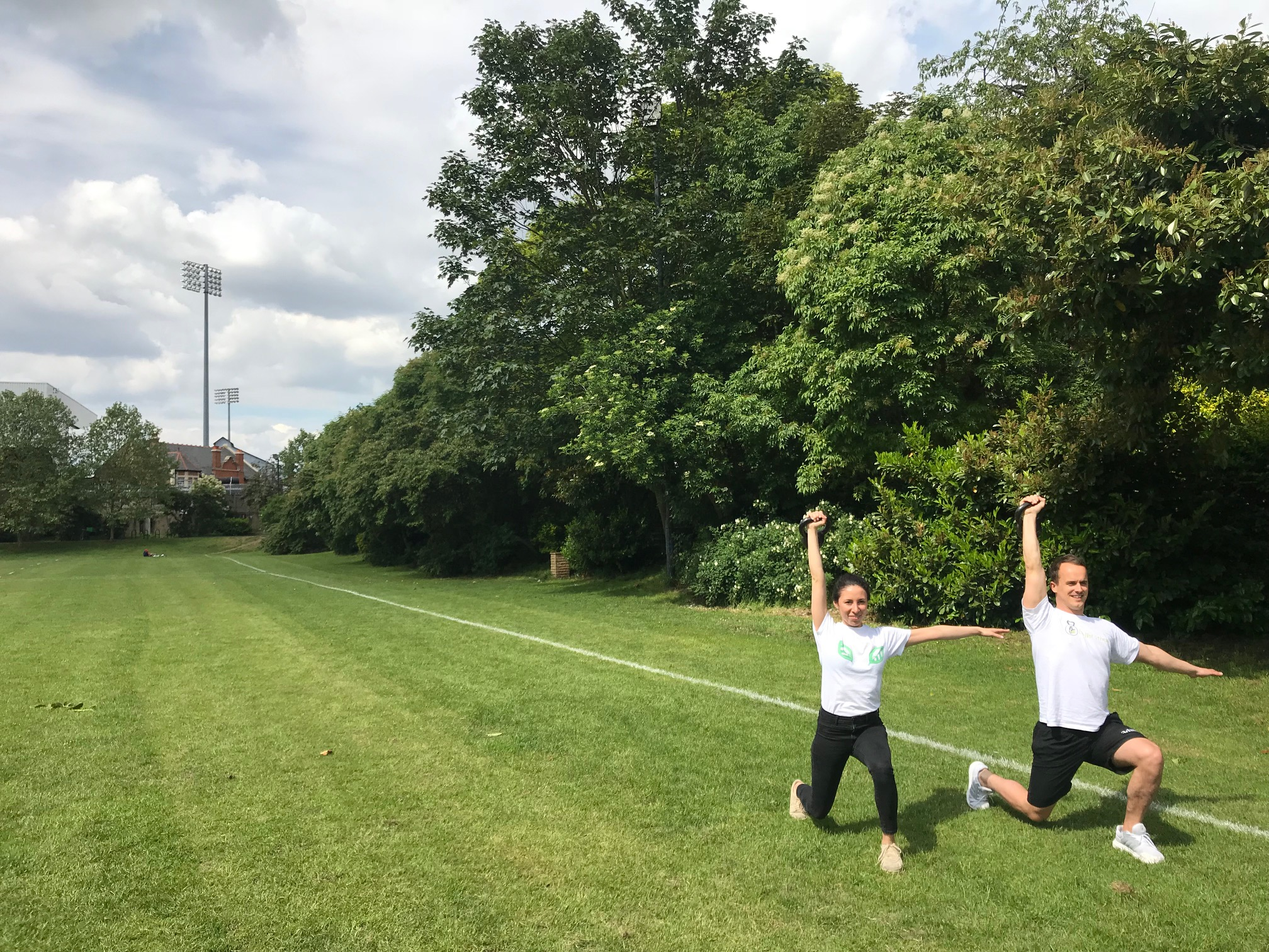
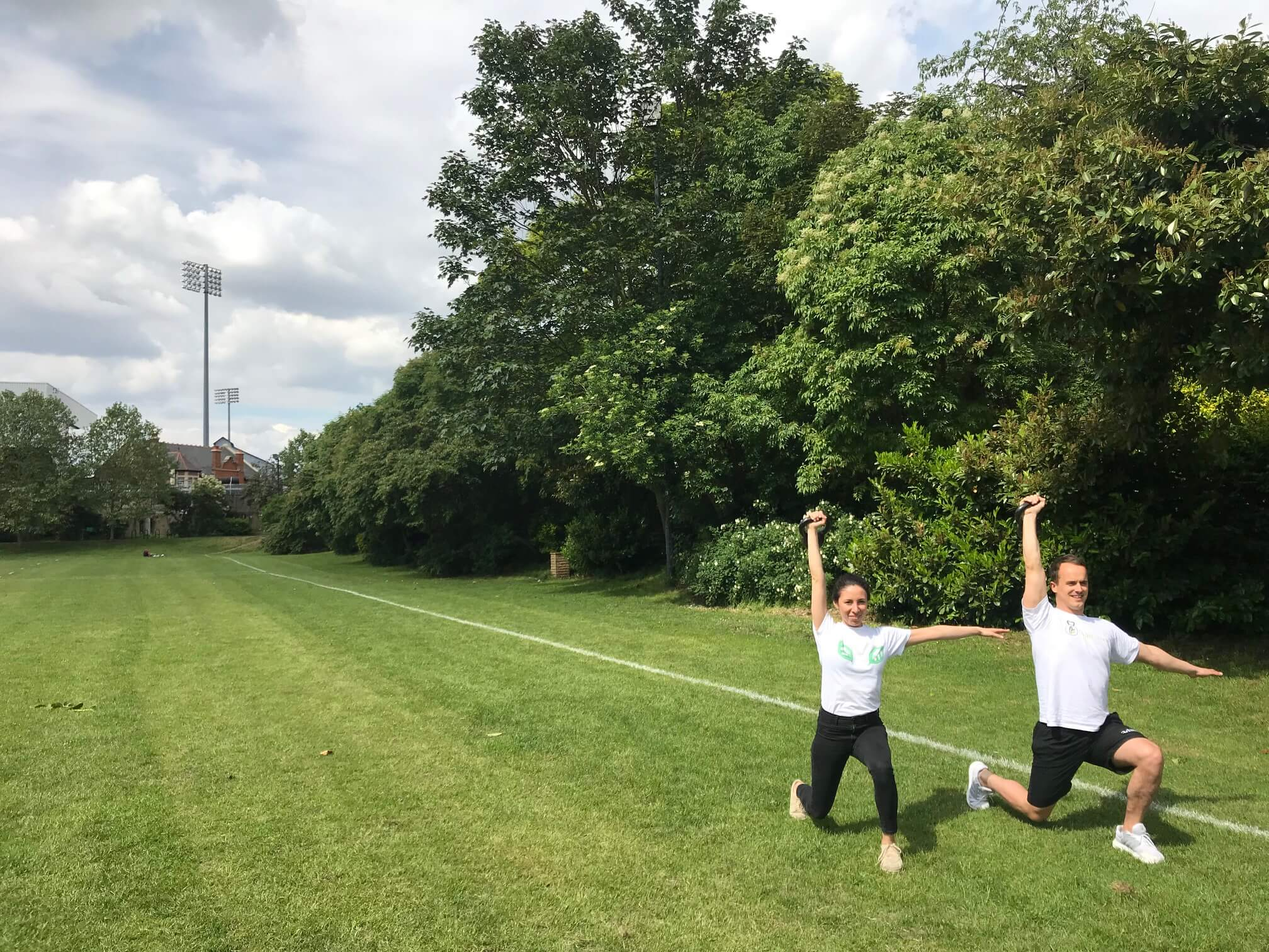
Optimised css and images

diff --git a/css/main.min.css b/css/main.min.css
@@ -1,0 +1,1 @@
+@import url("https://fonts.googleapis.com/css?family=Raleway&display=swap");body{margin:0;padding:0}*{-webkit-box-sizing:border-box;box-sizing:border-box}img{display:block}a{text-decoration:none}ul{list-style-type:none}h1,h2,h3{font-family:"Raleway", sans-serif;color:white}ul,li,a{font-family:"Raleway", sans-serif}h1{font-size:6.4vw;text-align:center}@media (min-width: 720px){h1{font-size:2.777vw}}h2{font-size:5.6vw;text-align:center}@media (min-width: 720px){h2{font-size:2.0138vw}}h3{font-size:5.066vw}@media (min-width: 720px){h3{font-size:2.22vw}}p{font-family:"Raleway", sans-serif;font-size:4vw;text-align:center;font-weight:400;color:white}@media (min-width: 720px){p{font-size:1.458vw}}section.contact{width:100%;padding:3vw 0;background-color:#211d1d;height:88vw}@media (min-width: 720px){section.contact{height:30vw}}section.contact .contact_wrapper--mob{display:block}@media (min-width: 720px){section.contact .contact_wrapper--mob{display:none}}section.contact .contact_wrapper--dt{display:none}@media (min-width: 720px){section.contact .contact_wrapper--dt{display:block}}section.contact h1{color:#8cc63f;padding-bottom:2vw}section.contact .contact__contact-options{width:45%;margin:0 auto;display:-webkit-box;display:-ms-flexbox;display:flex;-ms-flex-pack:distribute;justify-content:space-around;-webkit-box-align:start;-ms-flex-align:start;align-items:flex-start;-webkit-box-flex:1;-ms-flex:1;flex:1;-webkit-box-orient:vertical;-webkit-box-direction:normal;-ms-flex-direction:column;flex-direction:column}@media (min-width: 720px){section.contact .contact__contact-options{-webkit-box-align:center;-ms-flex-align:center;align-items:center;-webkit-box-orient:horizontal;-webkit-box-direction:normal;-ms-flex-direction:row;flex-direction:row;width:40%}}section.contact .contact__contact-options .contact__contact-options__option{-ms-flex-preferred-size:13vw;flex-basis:13vw}@media (min-width: 720px){section.contact .contact__contact-options .contact__contact-options__option{-ms-flex-preferred-size:0vw;flex-basis:0vw}}section.contact .contact__contact-options .contact__contact-options__option a{font-family:"Raleway", sans-serif;color:#8cc63f;font-size:3vw;text-align:center;display:-webkit-box;display:-ms-flexbox;display:flex;-webkit-box-align:center;-ms-flex-align:center;align-items:center;-webkit-box-pack:start;-ms-flex-pack:start;justify-content:start}section.contact .contact__contact-options .contact__contact-options__option img{display:inline-block;width:9vw;padding-right:2vw;-webkit-filter:brightness(0) saturate(100%) invert(78%) sepia(48%) saturate(599%) hue-rotate(34deg) brightness(87%) contrast(87%);filter:brightness(0) saturate(100%) invert(78%) sepia(48%) saturate(599%) hue-rotate(34deg) brightness(87%) contrast(87%)}@media (min-width: 720px){section.contact .contact__contact-options .contact__contact-options__option img{width:7vw;padding-right:0vw}}section.contact .contact__contact-details{width:40%;margin:0 auto;text-align:center;position:relative;top:3vw;left:50%;margin-left:-20%;padding-bottom:0vw}section.contact .contact__contact-details div{width:100%;font-family:"Raleway", sans-serif;color:#8cc63f;font-size:2vw;text-align:center;position:absolute;top:0;opacity:0}section.section__about{background-color:#211d1d;padding:5vw 0}section.section__about a{text-decoration:underline;font-size:4vw;color:#8cc63f}@media (min-width: 720px){section.section__about a{font-size:1.458vw}}section.section__about .two-col-block{display:-webkit-box;display:-ms-flexbox;display:flex;-webkit-box-orient:vertical;-webkit-box-direction:normal;-ms-flex-direction:column;flex-direction:column;margin:2vw;padding:0 5vw}@media (min-width: 720px){section.section__about .two-col-block{-webkit-box-orient:horizontal;-webkit-box-direction:normal;-ms-flex-direction:row;flex-direction:row;-webkit-box-align:center;-ms-flex-align:center;align-items:center;-webkit-box-pack:space-evenly;-ms-flex-pack:space-evenly;justify-content:space-evenly;margin:2vw}}section.section__about .two-col-block__column img{width:100%;padding:1vw}section.section__about .two-col-block__column p{text-align:left}@media (min-width: 720px){section.section__about .two-col-block__column{-ms-flex-preferred-size:900px;flex-basis:900px}section.section__about .two-col-block__column img{padding-left:0;padding-right:5vw}}@media (min-width: 720px){section.section__about .two-col-block--reverse{-webkit-box-orient:horizontal;-webkit-box-direction:reverse;-ms-flex-direction:row-reverse;flex-direction:row-reverse}section.section__about .two-col-block--reverse img{padding-left:5vw;padding-right:0}}section.features{width:100%;display:-ms-grid;display:grid;padding:4vw 6.94vw 6.94vw 6.94vw;-webkit-box-pack:center;-ms-flex-pack:center;justify-content:center;-webkit-box-align:baseline;-ms-flex-align:baseline;align-items:baseline;text-align:center;-ms-grid-columns:1fr;grid-template-columns:1fr;grid-template-areas:"heading" "onetoone" "group" "online" "plans";grid-row-gap:10vw}@media (min-width: 720px){section.features{-ms-grid-columns:1fr 1fr;grid-template-columns:1fr 1fr;grid-template-areas:"heading heading" "onetoone group" "online plans";grid-column-gap:4vw;grid-row-gap:4vw}}section.features h1{color:#292627;-ms-grid-row:1;-ms-grid-column:1;grid-area:heading}section.features p,section.features h3{color:#292627}@media (min-width: 720px){section.features .features__feature-left{margin-left:10vw}}@media (min-width: 720px){section.features .features__feature-right{margin-right:10vw}}section.features img{width:24vw;margin:0 auto}@media (min-width: 720px){section.features img{width:6.96vw}}section.features .feature-area-a{-ms-grid-row:2;-ms-grid-column:1;grid-area:onetoone}section.features .feature-area-b{-ms-grid-row:3;-ms-grid-column:1;grid-area:group}section.features .feature-area-c{-ms-grid-row:4;-ms-grid-column:1;grid-area:online}section.features .feature-area-d{-ms-grid-row:5;-ms-grid-column:1;grid-area:plans}section.testimonials{background-color:#000000;position:relative;width:100%;display:-ms-grid;display:grid;padding:6.94vw;-webkit-box-pack:space-evenly;-ms-flex-pack:space-evenly;justify-content:space-evenly;-webkit-box-align:baseline;-ms-flex-align:baseline;align-items:baseline;text-align:center;-ms-grid-columns:1fr;grid-template-columns:1fr;grid-template-areas:"quote-1" "quote-2" "quote-3";row-gap:10vw}@media (min-width: 720px){section.testimonials{-ms-grid-columns:1fr 1fr 1fr;grid-template-columns:1fr 1fr 1fr;grid-template-areas:"quote-1 quote-2 quote-3";-webkit-column-gap:4vw;column-gap:4vw;row-gap:4vw;padding-bottom:40vw;background-image:url(../images/main.jpg);background-repeat:no-repeat;background-size:cover}}section.testimonials .testimonial__quote-mark{position:absolute;font-size:30vw;width:10vw;color:#8cc63f}@media (min-width: 720px){section.testimonials .testimonial__quote-mark{width:5vw;font-size:12vw;line-height:0}}section.testimonials .testimonial__quote-mark--left{left:3vw;top:3vw}@media (min-width: 720px){section.testimonials .testimonial__quote-mark--left{left:5vw;top:10vw}}section.testimonials .testimonial__quote-mark--right{left:83vw;top:235vw}@media (min-width: 720px){section.testimonials .testimonial__quote-mark--right{left:90vw;top:36.5vw}}.testimonial{background-color:#000000;border-radius:20px;-webkit-box-shadow:5px 5px 10px 3px rgba(0,0,0,0.1);box-shadow:5px 5px 10px 3px rgba(0,0,0,0.1);background-color:#211d1d;padding:8vw;-webkit-box-flex:1;-ms-flex:1;flex:1;-webkit-box-shadow:5px 5px 5px 3px rgba(0,0,0,0.7);box-shadow:5px 5px 5px 3px rgba(0,0,0,0.7)}@media (min-width: 720px){.testimonial{padding:2vw}}.testimonial img{width:8vw;-webkit-clip-path:circle(4vw at 4vw 4vw);clip-path:circle(4vw at 4vw 4vw)}@media (min-width: 720px){.testimonial img{width:5vw;-webkit-clip-path:circle(2.5vw at 2.5vw 2.5vw);clip-path:circle(2.5vw at 2.5vw 2.5vw)}}.testimonial p{text-align:left}.feature-area-aa{-ms-grid-row:1;-ms-grid-column:1;grid-area:quote-1}.feature-area-bb{-ms-grid-row:2;-ms-grid-column:1;grid-area:quote-2}.feature-area-cc{-ms-grid-row:3;-ms-grid-column:1;grid-area:quote-3}.profile{display:-ms-grid;display:grid;-webkit-box-pack:start;-ms-flex-pack:start;justify-content:start;-webkit-box-align:center;-ms-flex-align:center;align-items:center;text-align:left;-ms-grid-columns:6.4vw 44vw;grid-template-columns:6.4vw 44vw;grid-template-areas:"e-pic e-name" "e-pic e-role";grid-row-gap:.5vw;-webkit-column-gap:3vw;column-gap:3vw;color:white}@media (min-width: 720px){.profile{-ms-grid-columns:5vw 9vw;grid-template-columns:5vw 9vw;font-size:1vw;-webkit-column-gap:.7vw;column-gap:.7vw}}.profile .endorser{-ms-grid-row:1;-ms-grid-column:2;grid-area:e-name;font-family:"Raleway", sans-serif;-ms-flex-item-align:end;-ms-grid-row-align:end;align-self:end;font-weight:700}.profile .job-title{-ms-grid-row:2;-ms-grid-column:2;grid-area:e-role;font-family:"Raleway", sans-serif;-ms-flex-item-align:start;-ms-grid-row-align:start;align-self:start}.profile .profile-image{-ms-grid-row:1;-ms-grid-row-span:2;-ms-grid-column:1;grid-area:e-pic}#ie_wrap{display:none;width:100%;height:100%;background-color:#000000}#ie_wrap img{width:50%;display:block;margin:0 auto;padding:5vw 0}#ie_wrap ul{padding:0vw 0 5vw 9vw;width:35%;margin:0 auto}#ie_wrap li{text-align:left}#ie_wrap li p{background-repeat:no-repeat;text-align:left;padding-left:3vw}#ie_wrap p.tel{background-image:url(../images/icon-whatsapp.svg);background-size:6.1vw}@media (min-width: 720px){#ie_wrap p.tel{background-size:1.3vw}}#ie_wrap p.email{background-image:url(../images/icon-email.svg);background-size:6vw}@media (min-width: 720px){#ie_wrap p.email{background-size:1.597vw}}#ie_wrap p.insta{background-image:url(../images/icon-instagram.svg);background-size:5.859vw}@media (min-width: 720px){#ie_wrap p.insta{background-size:1.3vw}}#ie_wrap p.facebook{background-image:url(../images/icon-facebook.svg);background-size:5.9vw}@media (min-width: 720px){#ie_wrap p.facebook{background-size:1.3vw}}.header-bg{position:absolute;top:0;left:0;background-color:#000000;background-image:url(../images/kb-squat.jpg);background-image:-webkit-gradient(linear, left top, left bottom, from(rgba(0,0,0,0.6)), to(rgba(0,0,0,0.6))),url(../images/kb-squat.jpg);background-image:linear-gradient(to bottom, rgba(0,0,0,0.6) 0%, rgba(0,0,0,0.6) 100%),url(../images/kb-squat.jpg);background-repeat:no-repeat;background-size:contain;width:100vw;height:250vw;padding-bottom:1px;z-index:-1}@media (min-width: 720px){.header-bg{height:110vw}}header{width:100vw;padding-bottom:5vw}header .overlay{width:100vw;height:100vh;position:fixed;top:0;left:0;background-color:#211d1d;opacity:0;z-index:-50}@media (min-width: 720px){header .overlay{display:none}}header nav{width:100%;height:4vw;padding:0 10.666vw}@media (min-width: 720px){header nav{height:6vw;padding:0 5.555vw;display:block}}header nav #menu_kb,header nav #menu_trigger{width:8vw;position:fixed;z-index:200;top:5.9vw;left:85vw}@media (min-width: 720px){header nav #menu_kb,header nav #menu_trigger{display:none}}header nav #menu_trigger{z-index:900;height:8vw;display:block;cursor:pointer}header nav ion-icon.close,header nav ion-icon.menu{height:5vw;width:5vw;position:fixed;fill:#8cc63f;top:9.1vw;left:86.1vw;z-index:300}@media (min-width: 720px){header nav ion-icon.close,header nav ion-icon.menu{display:none}}header nav ion-icon.close{opacity:0}header nav .stack{width:100vw;position:fixed;top:0;left:0;z-index:-50}@media (min-width: 720px){header nav .stack{display:none}}header nav .stack ul{margin:20vw auto 0 auto;display:block;z-index:300;padding-left:0}header nav .stack ul li{opacity:1;width:50vw;margin:0 auto;text-align:center;opacity:0;font-size:11vw;padding-top:5vw;z-index:300;width:100vw}header nav a{margin:0}header nav svg{width:21.866vw;height:6.933vw}@media (min-width: 720px){header nav svg{width:12.847vw;height:4.027vw}}header nav ul{display:none}@media (min-width: 720px){header nav ul{display:-webkit-box;display:-ms-flexbox;display:flex;width:20.833vw;-webkit-box-pack:justify;-ms-flex-pack:justify;justify-content:space-between}}@media (min-width: 720px){header nav ul li{font-size:1.111vw;padding-left:2vw}}header nav ul li a{color:white}@media (min-width: 720px){header nav ul li a:hover{text-decoration:underline}}header p{width:83vw;margin:9vw auto 8vw auto;text-align:center}@media (min-width: 720px){header p{width:50.138vw;margin:6vw auto 3vw auto}}header img{width:100%}header .header__logo-container{width:81.333vw;margin:1vw auto 16vw auto;text-align:justify}@media (min-width: 720px){header .header__logo-container{width:50.138vw;margin:0 auto 2vw auto}}@media (min-width: 720px){header p{width:68vw}}header a{margin:9vw auto}@media (min-width: 720px){header a{margin:3vw auto}}footer{width:100vw;height:105vw;background-color:#000000;color:#ffffff;font-family:"Raleway", sans-serif;padding:10vw 5.333vw 12.8vw 5.333vw;margin:0 auto}@media (min-width: 720px){footer{height:12vw;padding:3vw 8.333vw 3vw 8.333vw;margin:0 auto}}footer svg{width:21.866vw;height:6.933vw}@media (min-width: 720px){footer svg{width:12.847vw;height:4.027vw}}footer .five-col-block{display:-webkit-box;display:-ms-flexbox;display:flex;-webkit-box-orient:vertical;-webkit-box-direction:normal;-ms-flex-direction:column;flex-direction:column;-webkit-box-pack:center;-ms-flex-pack:center;justify-content:center;-webkit-box-align:start;-ms-flex-align:start;align-items:flex-start;margin:0 auto;width:70%}@media (min-width: 720px){footer .five-col-block{-webkit-box-orient:horizontal;-webkit-box-direction:normal;-ms-flex-direction:row;flex-direction:row;-webkit-box-align:center;-ms-flex-align:center;align-items:center;-webkit-box-pack:center;-ms-flex-pack:center;justify-content:center;width:100%}}footer .five-col-block__column img{width:60%;margin:0 auto}@media (min-width: 720px){footer .five-col-block__column{-ms-flex-preferred-size:365px;flex-basis:365px}}footer a{text-decoration:none;color:#ffffff}footer p{padding-left:10.666vw;height:6vw;text-align:left;color:#ffffff;font-size:4.26vw;background-position:top left;background-repeat:no-repeat}@media (min-width: 720px){footer p{padding-left:2.91vw;font-size:1.111vw;height:3vw}}footer p.tel{background-image:url(../images/icon-whatsapp.svg);background-size:6.1vw}@media (min-width: 720px){footer p.tel{background-size:1.3vw}}footer p.email{background-image:url(../images/icon-email.svg);background-size:6vw}@media (min-width: 720px){footer p.email{background-size:1.597vw}}footer p.insta{background-image:url(../images/icon-instagram.svg);background-size:5.859vw}@media (min-width: 720px){footer p.insta{background-size:1.3vw}}footer p.facebook{background-image:url(../images/icon-facebook.svg);background-size:5.9vw}@media (min-width: 720px){footer p.facebook{background-size:1.3vw}}footer .five-col-block__column--first{-ms-flex-item-align:start;-ms-grid-row-align:start;align-self:start}@media (min-width: 720px){footer .five-col-block__column--fourth{margin-left:5vw}}footer .dt-only{display:none}@media (min-width: 720px){footer .dt-only{display:block}}footer .mob-only{display:block}@media (min-width: 720px){footer .mob-only{display:none}}footer_logo path{fill:#ffffff}.btn{font-family:"Raleway", sans-serif;background-color:#65e2d9;background-image:-webkit-gradient(linear, left top, right top, from(#65e2d9), to(#339ecc));background-image:linear-gradient(to right, #65e2d9 0%, #339ecc 100%);border-radius:100px;color:#ffffff;font-size:4vw;padding:3.5vw 0;width:64.5vw;font-weight:700;text-align:center;-webkit-box-shadow:5px 5px 10px 3px rgba(0,0,0,0.1);box-shadow:5px 5px 10px 3px rgba(0,0,0,0.1);display:block;cursor:pointer}@media (min-width: 720px){.btn{font-size:1vw;width:19.58vw;padding:1vw 0}}.btn:hover{-webkit-box-shadow:2px 2px 6px 2px rgba(0,0,0,0.3);box-shadow:2px 2px 6px 2px rgba(0,0,0,0.3)}body,main{background-color:#ffffff;width:100%}

diff --git a/index.html b/index.html
@@ -7,7 +7,7 @@
   <!-- displays site properly based on user's device -->
 
   <link rel="icon" type="image/png" sizes="32x32" href="./images/favicon-32x32.png">
-  <link rel="stylesheet" href="css/main.css">
+  <link rel="stylesheet" href="css/main.min.css">
   <title>Bodhi Fitness | Christopher Williams</title>
   <script src="https://cdnjs.cloudflare.com/ajax/libs/gsap/2.1.3/TweenMax.min.js"></script>
   <script>
